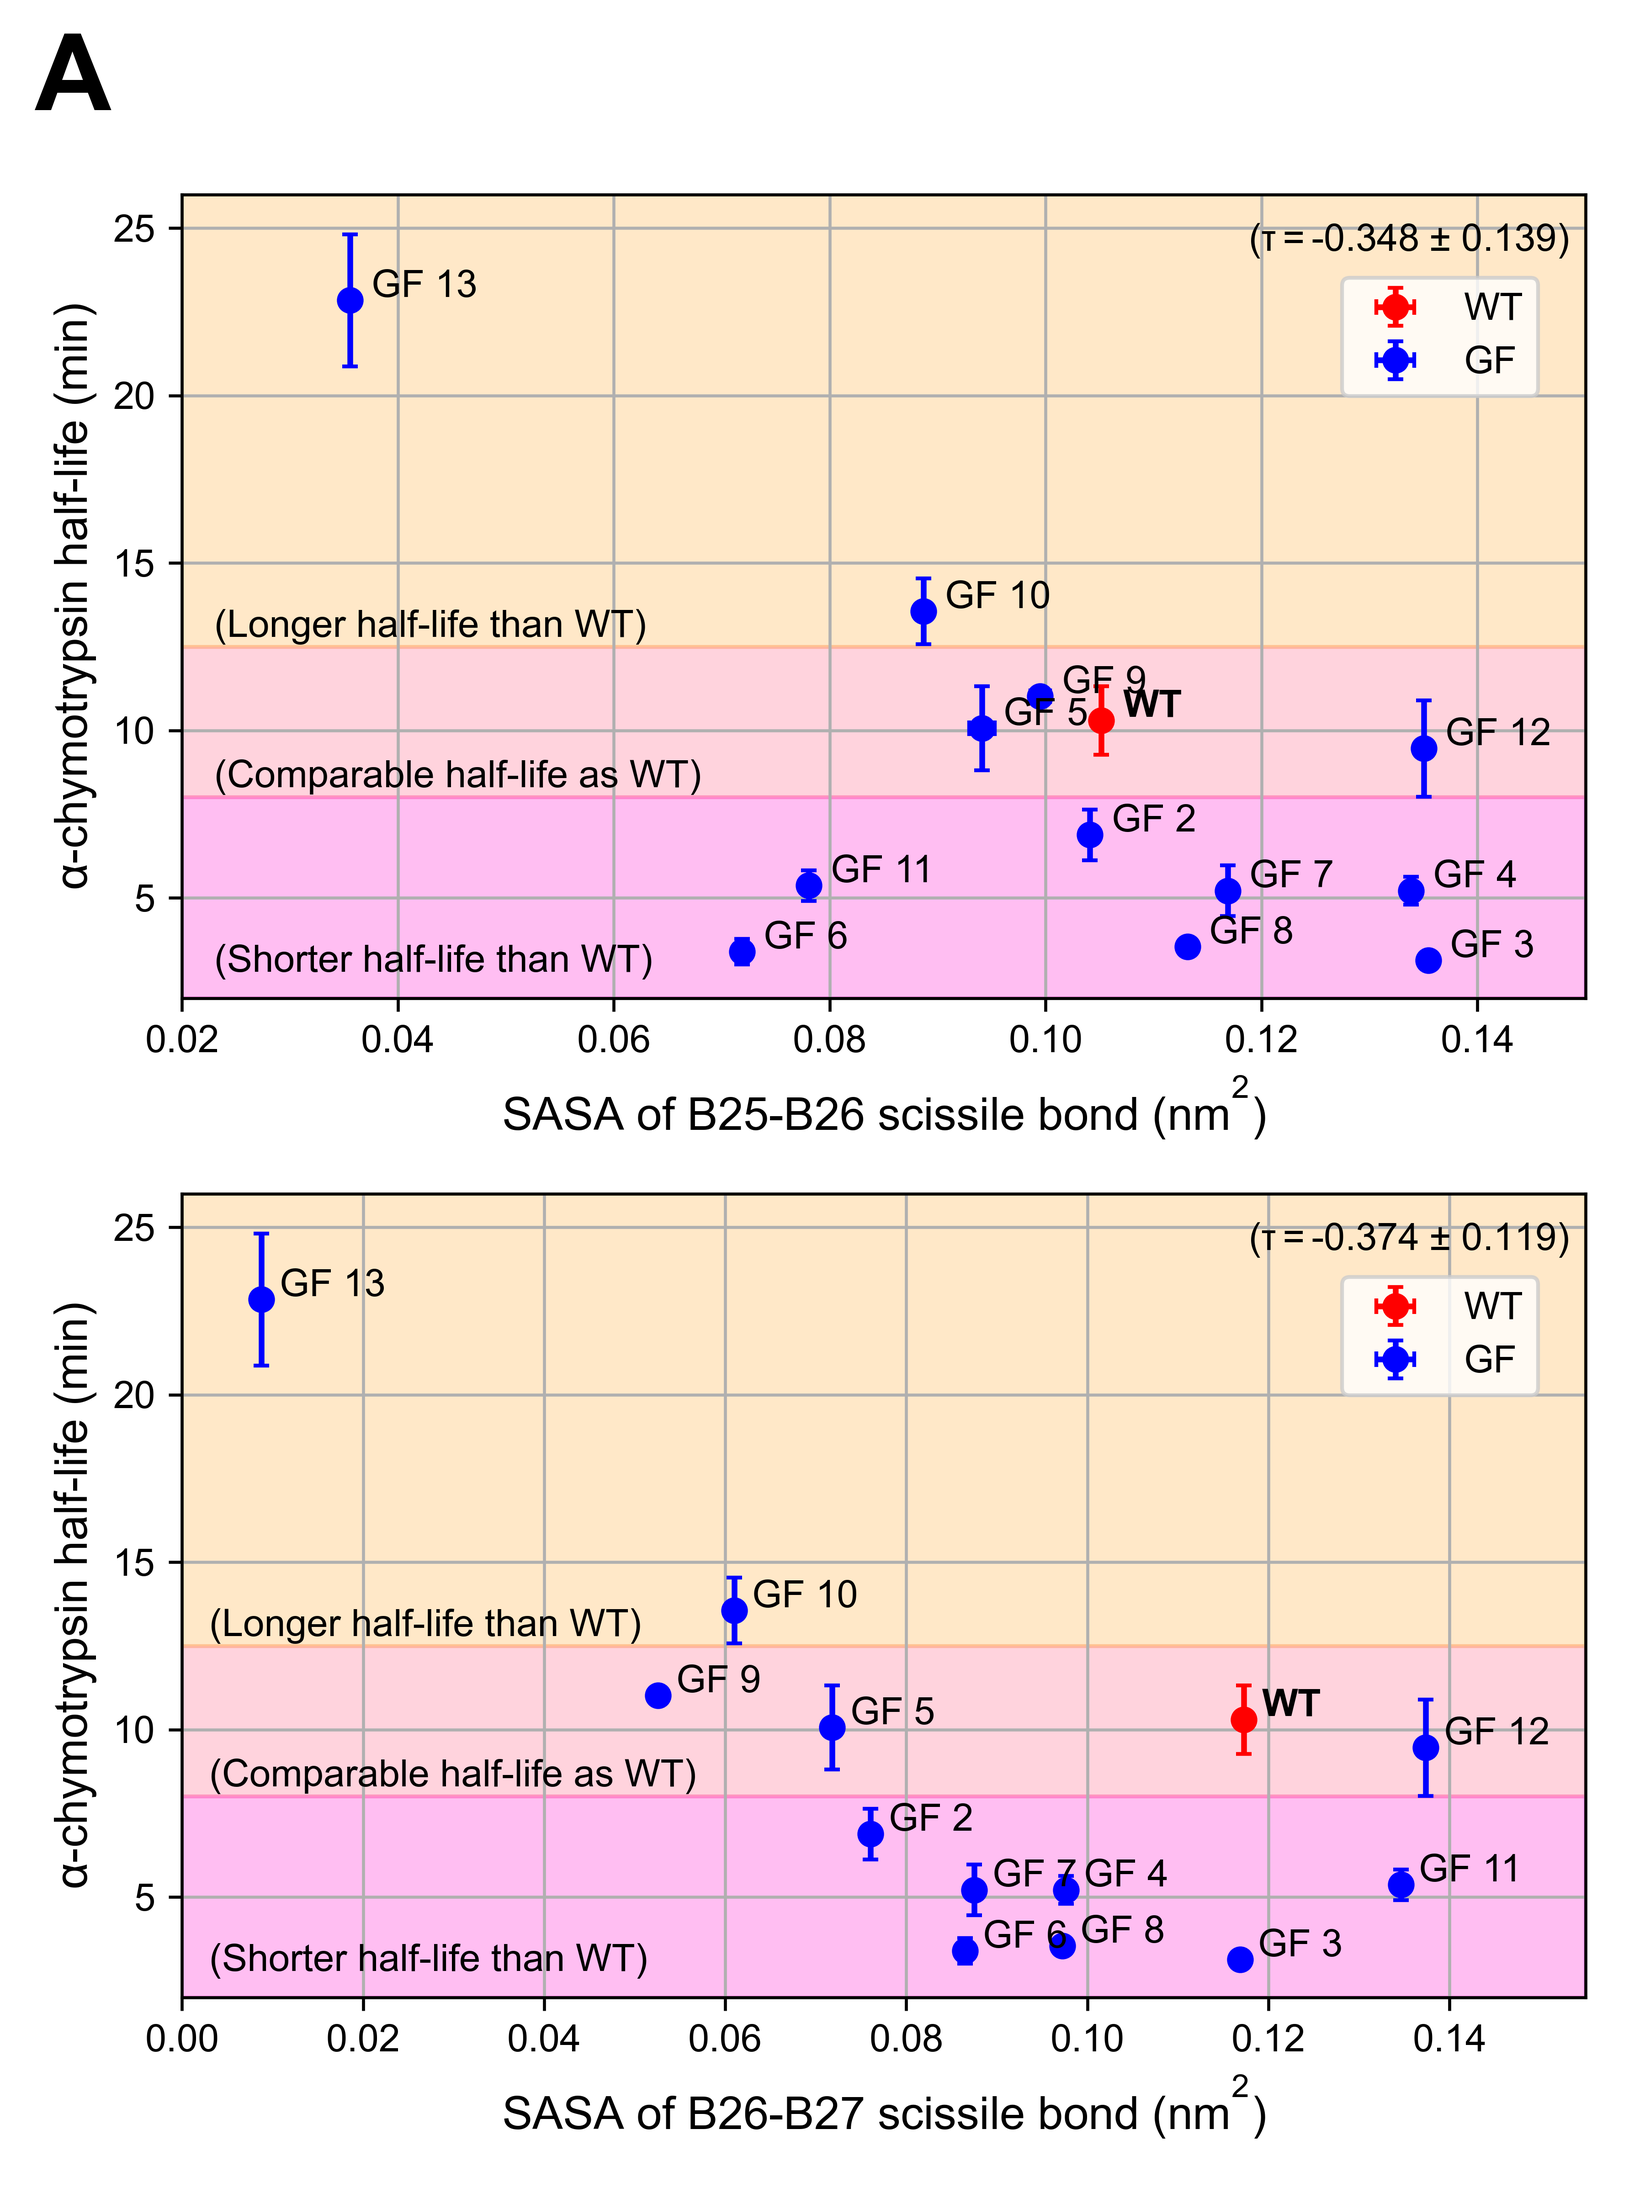
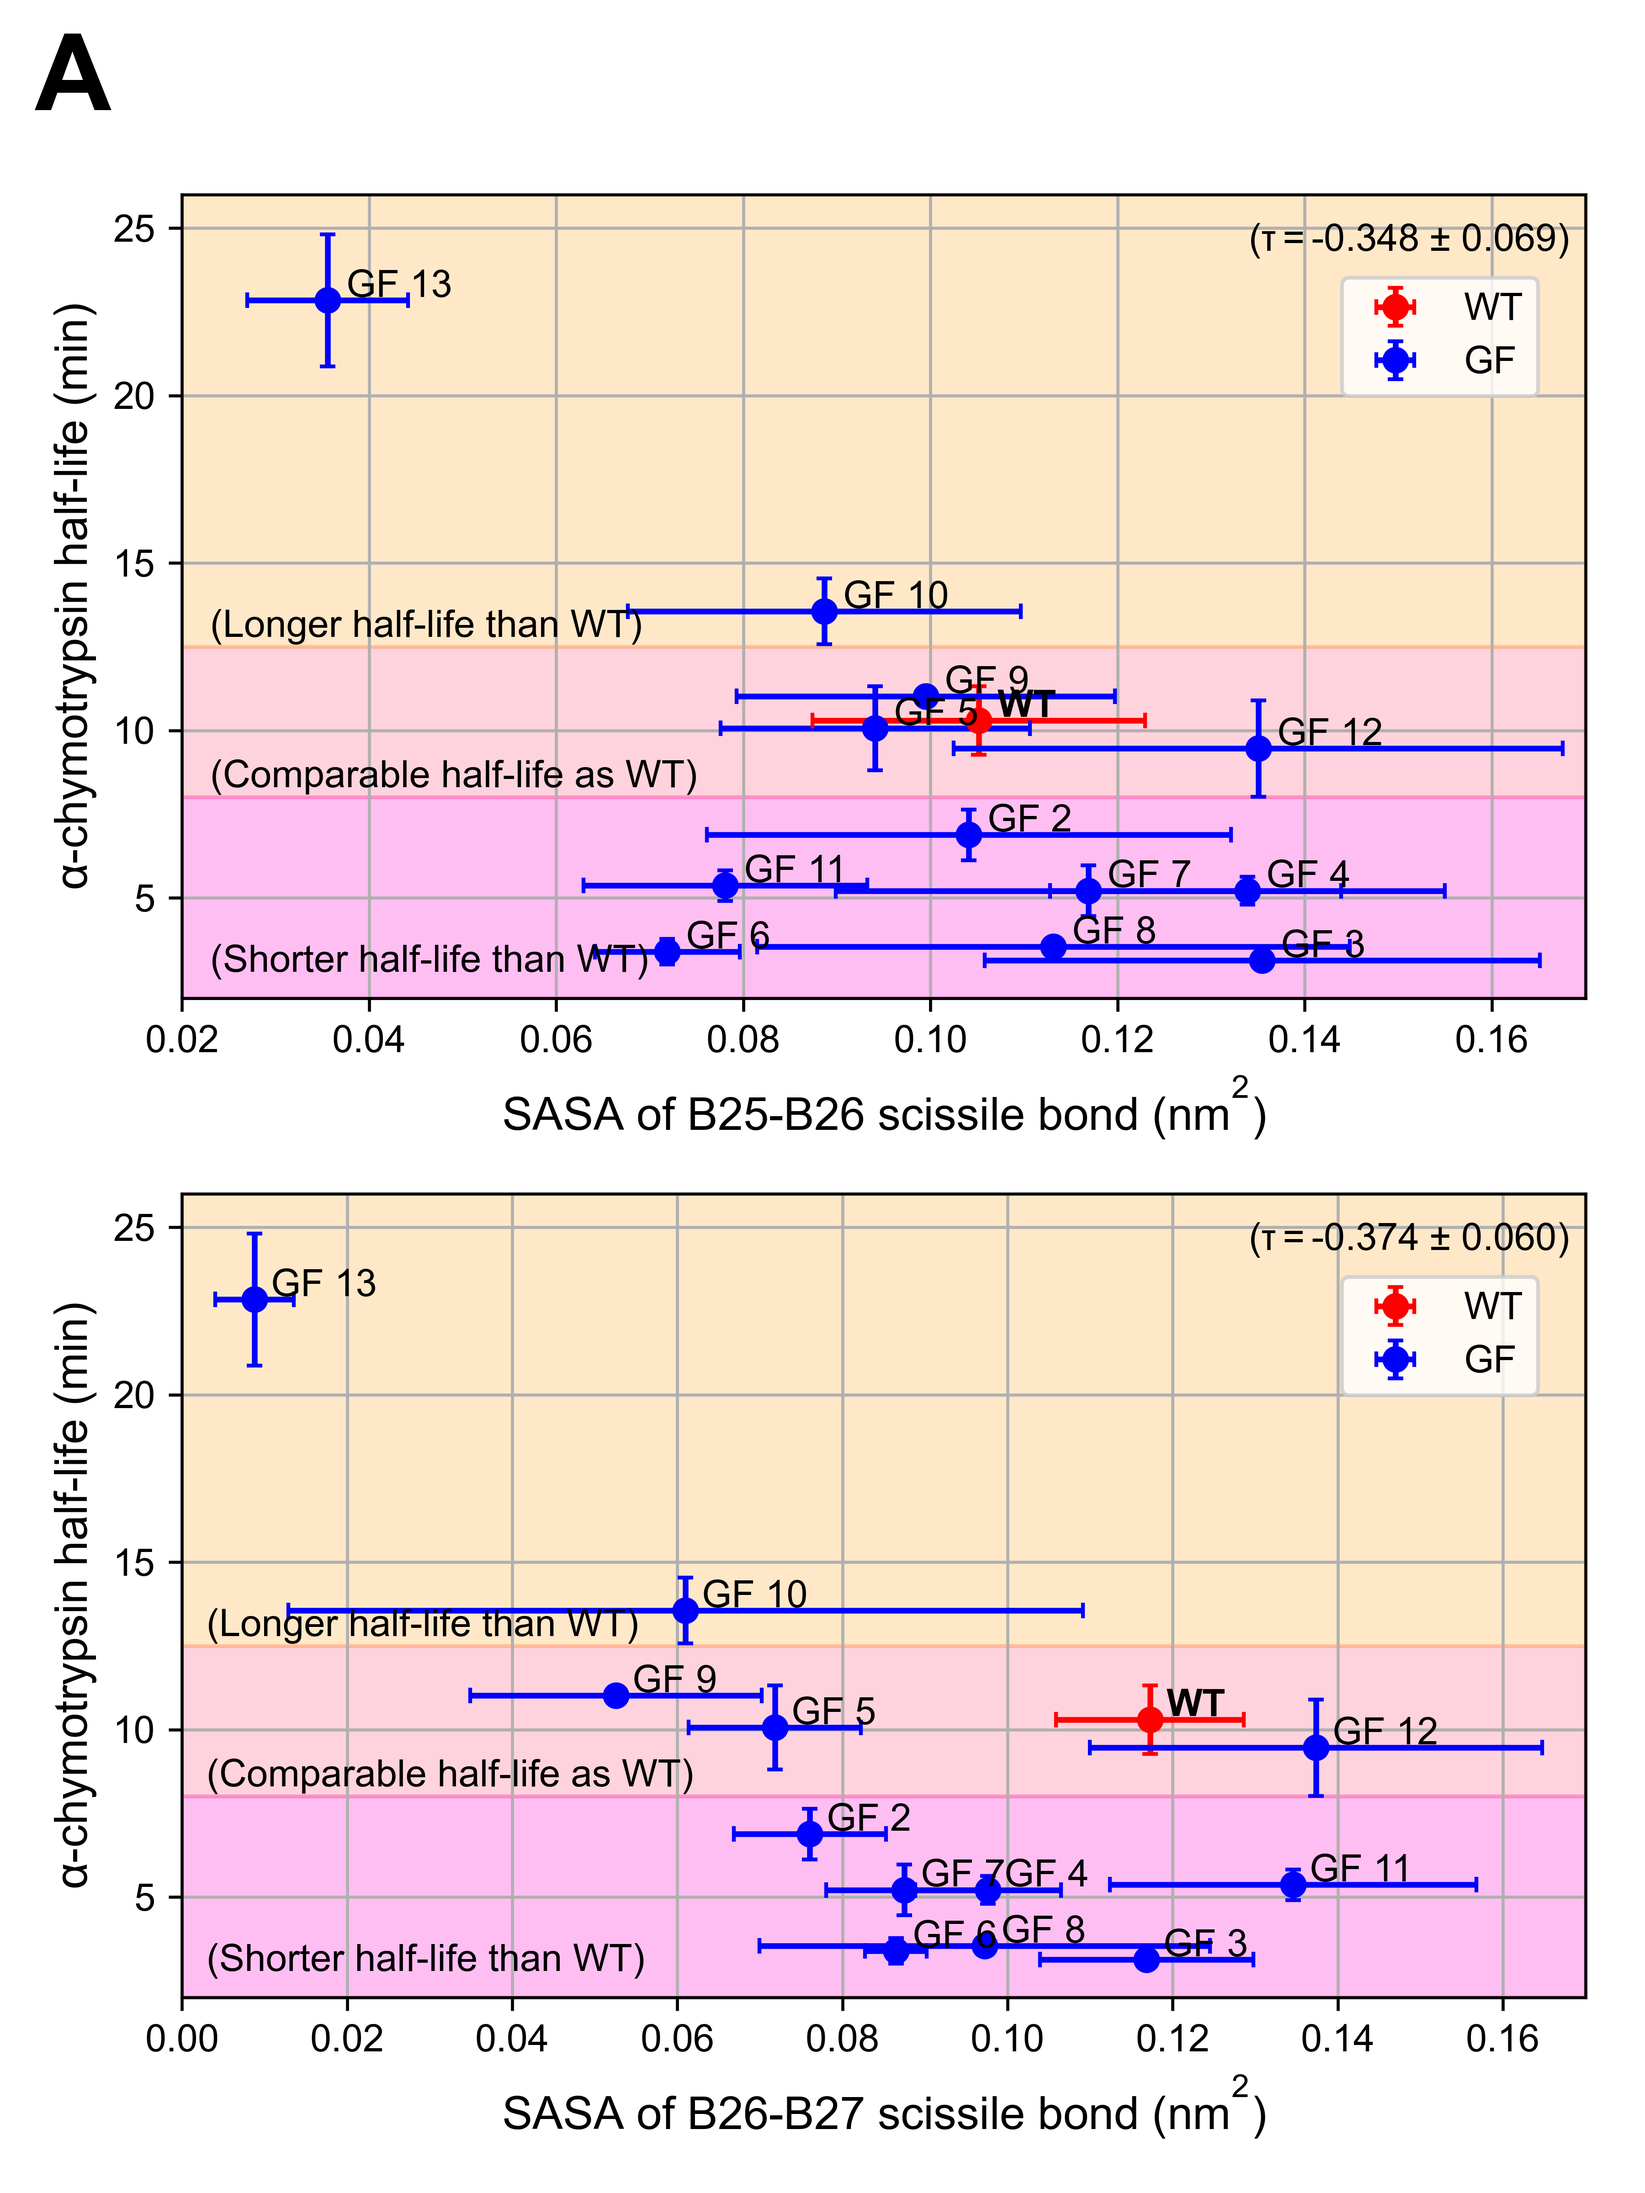
Updated methods for calculating uncertainty

diff --git a/data_analysis/proteolytic_stability/Metric_1/plot_PB_SASA_correlation.py b/data_analysis/proteolytic_stability/Metric_1/plot_PB_SASA_correlation.py
@@ -25,13 +25,14 @@ def analyze_sasa(xvg_file):
 
 def sum_up_data(avg_data, std_data):
     avg_data = np.transpose(np.array(avg_data))
-    std_data = np.transpose(np.array(std_data))
+    # std_data = np.transpose(np.array(std_data))
 
     avg_all, std_all = [], []  # avg of all GFs
 
     for i in range(len(avg_data)):
         avg_all.append(np.mean(avg_data[i]))
-        std_all.append(1 / len(avg_data) * np.sqrt(sum(map(lambda x: x * x, std_data[i]))))
+        std_all.append(np.std(avg_data[i]) / np.sqrt(len(avg_data[i]) - 1))
+        # std_all.append(1 / len(avg_data) * np.sqrt(sum(map(lambda x: x * x, std_data[i]))))
 
     return avg_all, std_all
 
@@ -75,7 +76,7 @@ def bootstrapping_normal(x, y, x_err, y_err, n_boot=500):
 
     return r, r_err
 
-def bootstrapping_sample(x_data, y_mean, y_err):
+def bootstrapping_sample(x_data, y_mean, y_err, n_boot=500):
     """
     This functions bootstraps over the raw data of x (e.g. computational values)
     and a normal distribution centered at the mean of y (e.g. experimental values)
@@ -93,7 +94,7 @@ def bootstrapping_sample(x_data, y_mean, y_err):
     # Boostrap over the data of 5 different WT models
     x_data = np.transpose(x_data)   # should be (13, 5), or (n_variants, n_WTmodels)
     r_list = []
-    for i in range(500):  # number of bootstrap
+    for i in range(n_boot):  # number of bootstrap
         xx, yy = [], []   # bootstrap samples for variables x and y
         for j in range(len(x_data)):  # 13 variants:
             xx.append(np.mean(random.choices(x_data[j], k=len(x_data[j]))))
@@ -101,7 +102,7 @@ def bootstrapping_sample(x_data, y_mean, y_err):
         coef, p_val = scipy.stats.kendalltau(xx, yy)
         r_list.append(coef)
     # r = np.mean(r_list)
-    r_err = np.std(r_list)  # we only use bootstrapping to calculate the uncertainty here
+    r_err = np.std(r_list) / np.sqrt(len(x_data[j]) - 1) # we only use bootstrapping to calculate the uncertainty here
 
     return r_err
 
@@ -179,9 +180,9 @@ if __name__ == "__main__":
             plt.errorbar(B25_avg[i], exp_h[i], xerr=B25_std[i], yerr=exp_err[i], fmt="o", color='blue', capsize=2)
             plt.text(B25_avg[i] + 0.002, exp_h[i] + 0.1, sys[i])
     
-    plt.fill_between([0.02, 0.15], 2, 8, color=colors[0], alpha=0.3, zorder=0)
-    plt.fill_between([0.02, 0.15], 8, 12.5, color=colors[1], alpha=0.3, zorder=0)
-    plt.fill_between([0.02, 0.15], 12.5, 26, color=colors[2], alpha=0.3, zorder=0)
+    plt.fill_between([0.02, 0.17], 2, 8, color=colors[0], alpha=0.3, zorder=0)
+    plt.fill_between([0.02, 0.17], 8, 12.5, color=colors[1], alpha=0.3, zorder=0)
+    plt.fill_between([0.02, 0.17], 12.5, 26, color=colors[2], alpha=0.3, zorder=0)
     plt.text(0.023, 12.8, '(Longer half-life than WT)')
     plt.text(0.023, 8.3, '(Comparable half-life as WT)')
     plt.text(0.023, 2.8, '(Shorter half-life than WT)')
@@ -189,7 +190,7 @@ if __name__ == "__main__":
     
     plt.xlabel('SASA of B25-B26 scissile bond (nm$^2$)', size=12)
     plt.ylabel(r'$\alpha$-chymotrypsin half-life (min)', size=12)
-    plt.xlim([0.02, 0.15])
+    plt.xlim([0.02, 0.17])
     plt.ylim([2, 26])
     plt.grid()
     plt.legend(bbox_to_anchor=(0.98, 0.92))
@@ -210,9 +211,9 @@ if __name__ == "__main__":
             plt.errorbar(B26_avg[i], exp_h[i], xerr=B26_std[i], yerr=exp_err[i], fmt="o", color='blue', capsize=2)
             plt.text(B26_avg[i] + 0.002, exp_h[i] + 0.1, sys[i])
     
-    plt.fill_between([0, 0.155], 2, 8, color=colors[0], alpha=0.3, zorder=0)
-    plt.fill_between([0, 0.155], 8, 12.5, color=colors[1], alpha=0.3, zorder=0)
-    plt.fill_between([0, 0.155], 12.5, 26, color=colors[2], alpha=0.3, zorder=0)
+    plt.fill_between([0, 0.17], 2, 8, color=colors[0], alpha=0.3, zorder=0)
+    plt.fill_between([0, 0.17], 8, 12.5, color=colors[1], alpha=0.3, zorder=0)
+    plt.fill_between([0, 0.17], 12.5, 26, color=colors[2], alpha=0.3, zorder=0)
     plt.text(0.003, 12.8, '(Longer half-life than WT)')
     plt.text(0.003, 8.3, '(Comparable half-life as WT)')
     plt.text(0.003, 2.8, '(Shorter half-life than WT)')
@@ -220,7 +221,7 @@ if __name__ == "__main__":
     
     plt.xlabel('SASA of B26-B27 scissile bond (nm$^2$)', size=12)
     plt.ylabel(r'$\alpha$-chymotrypsin half-life (min)', size=12)
-    plt.xlim([0, 0.155])
+    plt.xlim([0, 0.17])
     plt.ylim([2, 26])
     plt.grid()
     plt.legend(bbox_to_anchor=(0.98, 0.92))

diff --git a/data_analysis/proteolytic_stability/Metric_2/plot_res_SASA_correlation.py b/data_analysis/proteolytic_stability/Metric_2/plot_res_SASA_correlation.py
@@ -25,13 +25,14 @@ def analyze_sasa(xvg_file):
 
 def sum_up_data(avg_data, std_data):
     avg_data = np.transpose(np.array(avg_data))
-    std_data = np.transpose(np.array(std_data))
+    # std_data = np.transpose(np.array(std_data))
 
     avg_all, std_all = [], []  # avg of all GFs
 
     for i in range(len(avg_data)):
         avg_all.append(np.mean(avg_data[i]))
-        std_all.append(1 / len(avg_data) * np.sqrt(sum(map(lambda x: x * x, std_data[i]))))
+        std_all.append(np.std(avg_data[i]) / np.sqrt(len(avg_data[i]) - 1))
+        # std_all.append(1 / len(avg_data) * np.sqrt(sum(map(lambda x: x * x, std_data[i]))))
 
     return avg_all, std_all
 
@@ -101,7 +102,7 @@ def bootstrapping_sample(x_data, y_mean, y_err):
         coef, p_val = scipy.stats.kendalltau(xx, yy)
         r_list.append(coef)
     # r = np.mean(r_list)
-    r_err = np.std(r_list)  # we only use bootstrapping to calculate the uncertainty here
+    r_err = np.std(r_list) / np.sqrt(len(x_data[j]) - 1)  # we only use bootstrapping to calculate the uncertainty here
 
     return r_err
 
@@ -225,17 +226,17 @@ if __name__ == "__main__":
             else:  
                 plt.text(B25_avg[i] + 0.01, exp_h[i] + 0.1, sys[i])
 
-    plt.fill_between([0.95, 1.45], 2, 8, color=colors[0], alpha=0.3, zorder=0)
-    plt.fill_between([0.95, 1.45], 8, 12.5, color=colors[1], alpha=0.3, zorder=0)
-    plt.fill_between([0.95, 1.45], 12.5, 26, color=colors[2], alpha=0.3, zorder=0)
-    plt.text(0.955, 12.8, '(Longer half-life than WT)')
-    plt.text(0.955, 8.3, '(Comparable half-life as WT)')
-    plt.text(0.955, 2.8, '(Shorter half-life than WT)')
+    plt.fill_between([0.9, 1.55], 2, 8, color=colors[0], alpha=0.3, zorder=0)
+    plt.fill_between([0.9, 1.55], 8, 12.5, color=colors[1], alpha=0.3, zorder=0)
+    plt.fill_between([0.9, 1.55], 12.5, 26, color=colors[2], alpha=0.3, zorder=0)
+    plt.text(0.91, 12.8, '(Longer half-life than WT)')
+    plt.text(0.91, 8.3, '(Comparable half-life as WT)')
+    plt.text(0.91, 2.8, '(Shorter half-life than WT)')
     plt.text(0.76, 0.93, r'($\tau=$' + f'{c2:.3f} $\pm$ {e2:.3f})', transform=plt.gca().transAxes)
     
     plt.xlabel('SASA of residue B25 (nm$^2$)', size=12)
     plt.ylabel(r'$\alpha$-chymotrypsin half-life (min)', size=12)
-    plt.xlim([0.95, 1.43])
+    plt.xlim([0.9, 1.55])
     plt.ylim([2, 26])
     plt.grid()
     plt.legend(bbox_to_anchor=(0.98, 0.92))

diff --git a/data_analysis/supporting_information/transition_analysis/sasa_transition_analysis.py b/data_analysis/supporting_information/transition_analysis/sasa_transition_analysis.py
@@ -1,6 +1,7 @@
 import time
 import numpy as np 
 import matplotlib.pyplot as plt
+import ruptures as rpt
 from matplotlib import rc
 from pymbar import timeseries
 from prettytable import PrettyTable
@@ -11,10 +12,12 @@ def logger(*args, **kwargs):
         print(file=f, *args, **kwargs)
 
 def analyze_time_series(data):
-    [t, g, N_eff] = timeseries.detectEquilibration(data, nskip=1)
-    t = 0   # we don't truncate any data here in transition_analysis
-    avg = np.mean(data[t:])
-    std = np.std(data) / np.sqrt(len(data) / g)
+    # [t, g, N_eff] = timeseries.detectEquilibration(data)
+    algo = rpt.Pelt(model='rbf').fit(data)  # CPD by PELT algorithm
+    change = algo.predict(pen=10)
+
+    avg = np.mean(data)
+    std = np.std(data) / np.sqrt(len(change))
 
     return avg, std
 
@@ -66,11 +69,11 @@ if __name__ == "__main__":
 
     logger('\n[Metric 2: P1 site SASA]')
     data_dir = '../../proteolytic_stability/Metric_2/'
-    logger('(1) SASA of residue B24')
+    logger('(1) SASA of residue B24 (units: nm^2)')
     x = tabulate_sasa_result(data_dir, sys, '_sasa_res_B24.xvg', 2, analyze_time_series)
     logger(x)
 
-    logger('\n(2) SASA of residue B25')
+    logger('\n(2) SASA of residue B25 (units: nm^2)')
     x = tabulate_sasa_result(data_dir, sys, '_sasa_res_B25.xvg', 2, analyze_time_series)
     logger(x)
 

diff --git a/data_analysis/proteolytic_stability/Metric_3/plot_avg_beta_propensity_correlation.py b/data_analysis/proteolytic_stability/Metric_3/plot_avg_beta_propensity_correlation.py
@@ -77,7 +77,7 @@ def bootstrapping_sample(x_data, y_mean, y_err, n_boot=500):
         coef, p_val = scipy.stats.kendalltau(xx, yy)
         r_list.append(coef)
     # r = np.mean(r_list)
-    r_err = np.std(r_list)  # we only use bootstrapping to calculate the uncertainty here
+    r_err = np.std(r_list) / np.sqrt(len(x_data[j]) - 1) # we only use bootstrapping to calculate the uncertainty here
 
     return r_err
 
@@ -126,7 +126,7 @@ if __name__ == "__main__":
     random.seed(2021)
     np.random.seed(2021)
     exp_h, exp_err = read_experimental_data()
-    avg, err = np.mean(beta_all, axis=0), np.std(beta_all, axis=0)
+    avg, err = np.mean(beta_all, axis=0), np.std(beta_all, axis=0) / np.sqrt(5 - 1)
     
     c_list, e_list = [], []
     for i in range(4):
